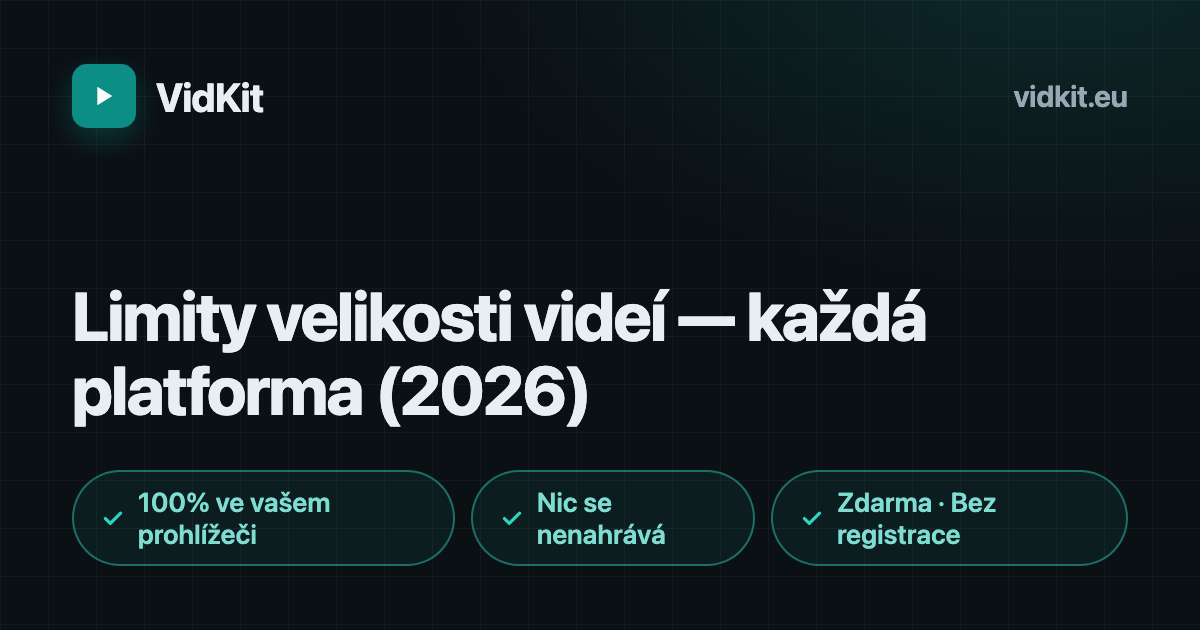
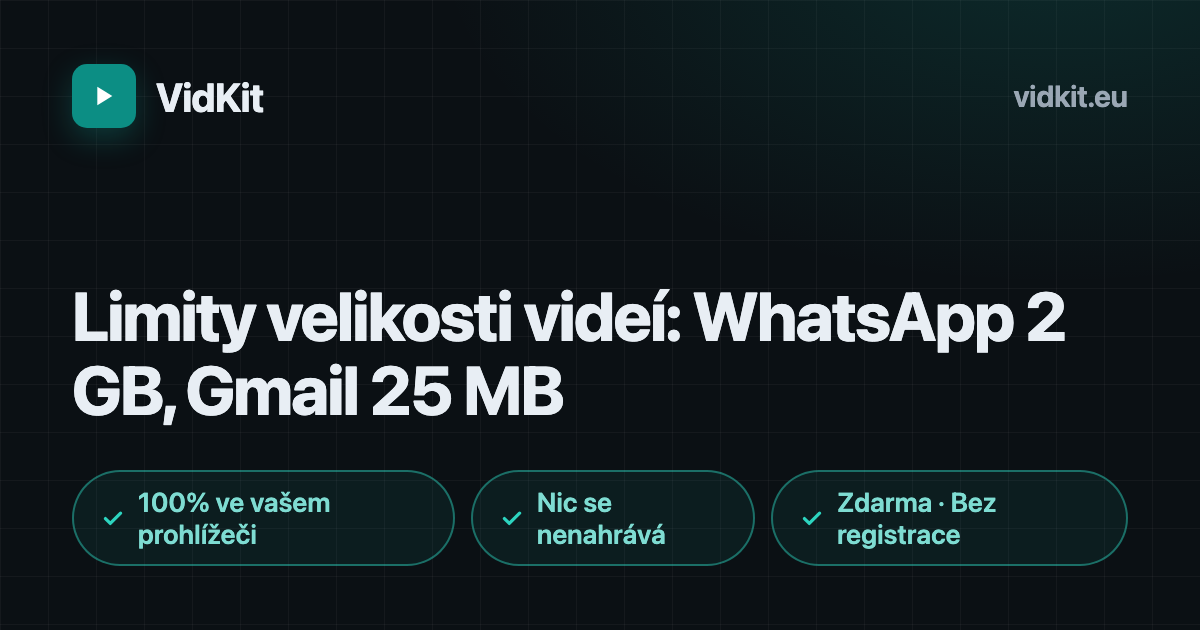
Answer platform limit questions on the size-limits page
The page ranks page-one on Bing (avg position 4.12, 77 impressions — half
the site's total) for informational long-tail like "video file size 50 mb
limit chat upload", and converts none of it: 0% CTR. Same failure the 25 MB
compressor page had — it ranked for a question and led with a category
label instead of the answer.

Title, description and hero lead now open with the figures people search
for (WhatsApp 2 GB, Gmail 25 MB and its real ~18 MB ceiling, Discord 10 MB)
rather than "size limits for every platform". Two FAQs added for the
observed queries — free-tier limits, and chat-attachment limits — which
flow into the existing FAQPage schema, now 7 questions.

Every figure quoted is one already in that locale's own tables, so the new
copy cannot drift from the verified rows. All 7 locales; OG cards
regenerated since og.title is baked into the PNG.

Changed region(s): [[0.0617, 0.573, 0.4933, 0.6937], [0.555, 0.4524, 0.8942, 0.573]]

diff --git a/templates/limits.html b/templates/limits.html
@@ -119,6 +119,14 @@
           <summary>{{faq.q5}}<span class="chevron" aria-hidden="true"><svg viewBox="0 0 24 24" fill="none"><path d="M12 6v12M6 12h12" stroke="currentColor" stroke-width="2" stroke-linecap="round"/></svg></span></summary>
           <div>{{faq.a5}}</div>
         </details>
+        <details class="faq-item">
+          <summary>{{faq.q6}}<span class="chevron" aria-hidden="true"><svg viewBox="0 0 24 24" fill="none"><path d="M12 6v12M6 12h12" stroke="currentColor" stroke-width="2" stroke-linecap="round"/></svg></span></summary>
+          <div>{{faq.a6}}</div>
+        </details>
+        <details class="faq-item">
+          <summary>{{faq.q7}}<span class="chevron" aria-hidden="true"><svg viewBox="0 0 24 24" fill="none"><path d="M12 6v12M6 12h12" stroke="currentColor" stroke-width="2" stroke-linecap="round"/></svg></span></summary>
+          <div>{{faq.a7}}</div>
+        </details>
       </div>
     </div>
   </section>
